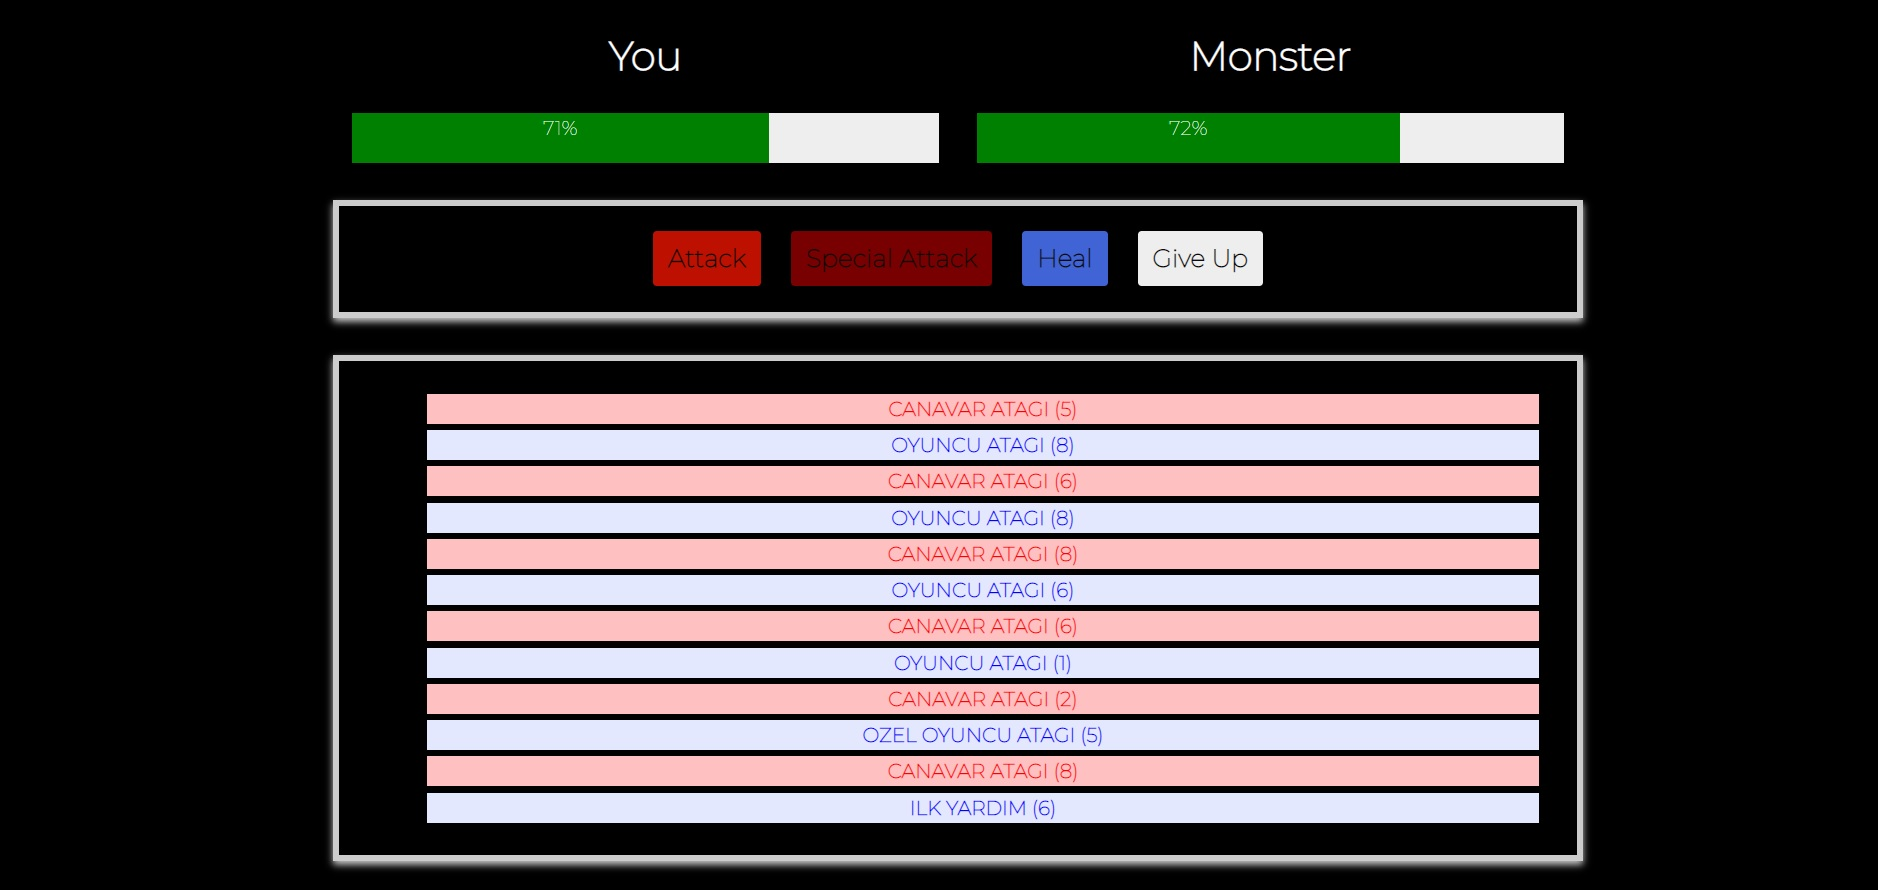
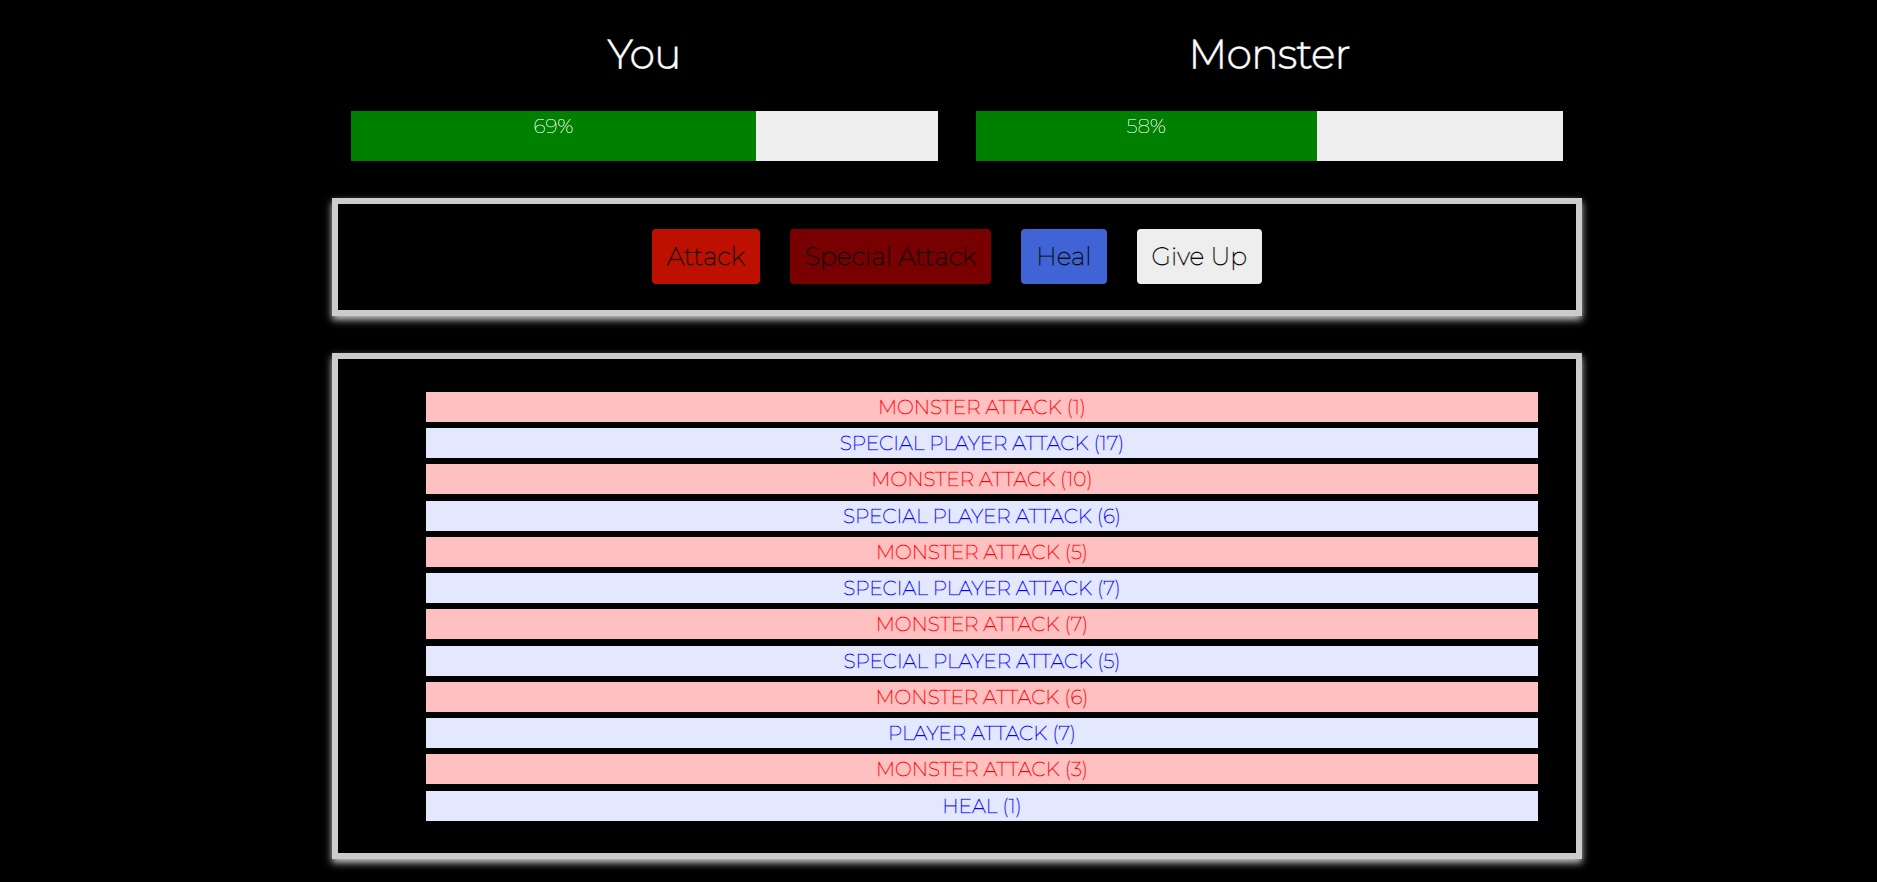
Translate

diff --git a/app.js b/app.js
@@ -15,33 +15,33 @@ new Vue({
             var point = Math.ceil(Math.random() * 10);
             this.monster_health -= point;
             this.monster_attack();
-            this.add_to_log({turn : "Player", text : "Oyuncu Atagi (" + point + ")"});
+            this.add_to_log({turn : "Player", text : "Player Attack (" + point + ")"});
         },
 
         special_attack : function() {
             var point = Math.ceil(Math.random() * 25);
             this.monster_health -= point;
             this.monster_attack();
-            this.add_to_log({turn : "Player", text : "Ozel Oyuncu Atagi (" + point + ")"});
+            this.add_to_log({turn : "Player", text : "Special Player Attack (" + point + ")"});
         },
 
         heal_up : function() {
             var point = Math.ceil(Math.random() * 25);
             this.me_health += point;
             this.monster_attack();
-            this.add_to_log({turn : "Player", text : "Ilk Yardim (" + point + ")"});
+            this.add_to_log({turn : "Player", text : "Heal (" + point + ")"});
         },
 
         give_up : function() {
             this.me_health = 0; 
-            this.add_to_log({turn : "Player", text : "Oyuncu Pes Etti..."});
+            this.add_to_log({turn : "Player", text : "Player Give Up..."});
     
 
         },
         monster_attack : function() {
             var point = Math.ceil(Math.random() * 10);
             this.me_health -= point;
-            this.add_to_log({turn : "Monster", text : "Canavar Atagi (" + point + ")"});
+            this.add_to_log({turn : "Monster", text : "Monster Attack (" + point + ")"});
         },
         add_to_log : function(log) {
             this.logs.push(log);
@@ -51,7 +51,7 @@ new Vue({
         me_health : function(value) {
             if (value <= 0) {
                 this.me_health = 0;
-                if(confirm("Oyunu Kaybettin... Tekrar oynamak ister misin?")) {
+                if(confirm("You Lose! New Game?")) {
                     this.me_health = 100;
                     this.monster_health = 100;
                     this.logs = [];
@@ -63,7 +63,7 @@ new Vue({
         monster_health : function(value) {
             if (value <= 0) {
                 this.monster_health = 0;
-                if(confirm("Oyunuzu Kazandın, Tebrikler! Tekrar Denemeye Var Misin?")) {
+                if(confirm("You Win! New Game?")) {
                     this.me_health = 100;
                     this.monster_health = 100;
                     this.logs = [];
